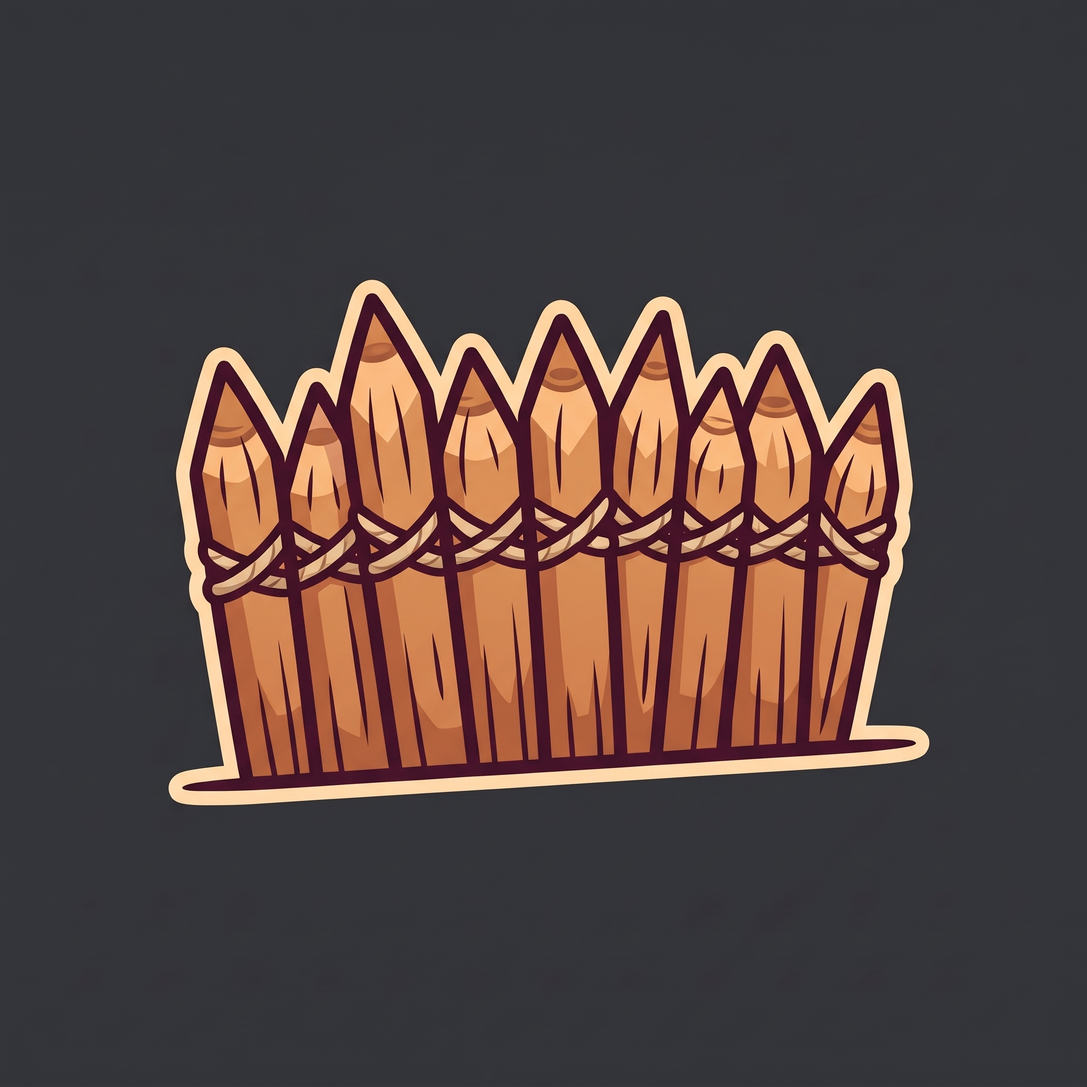
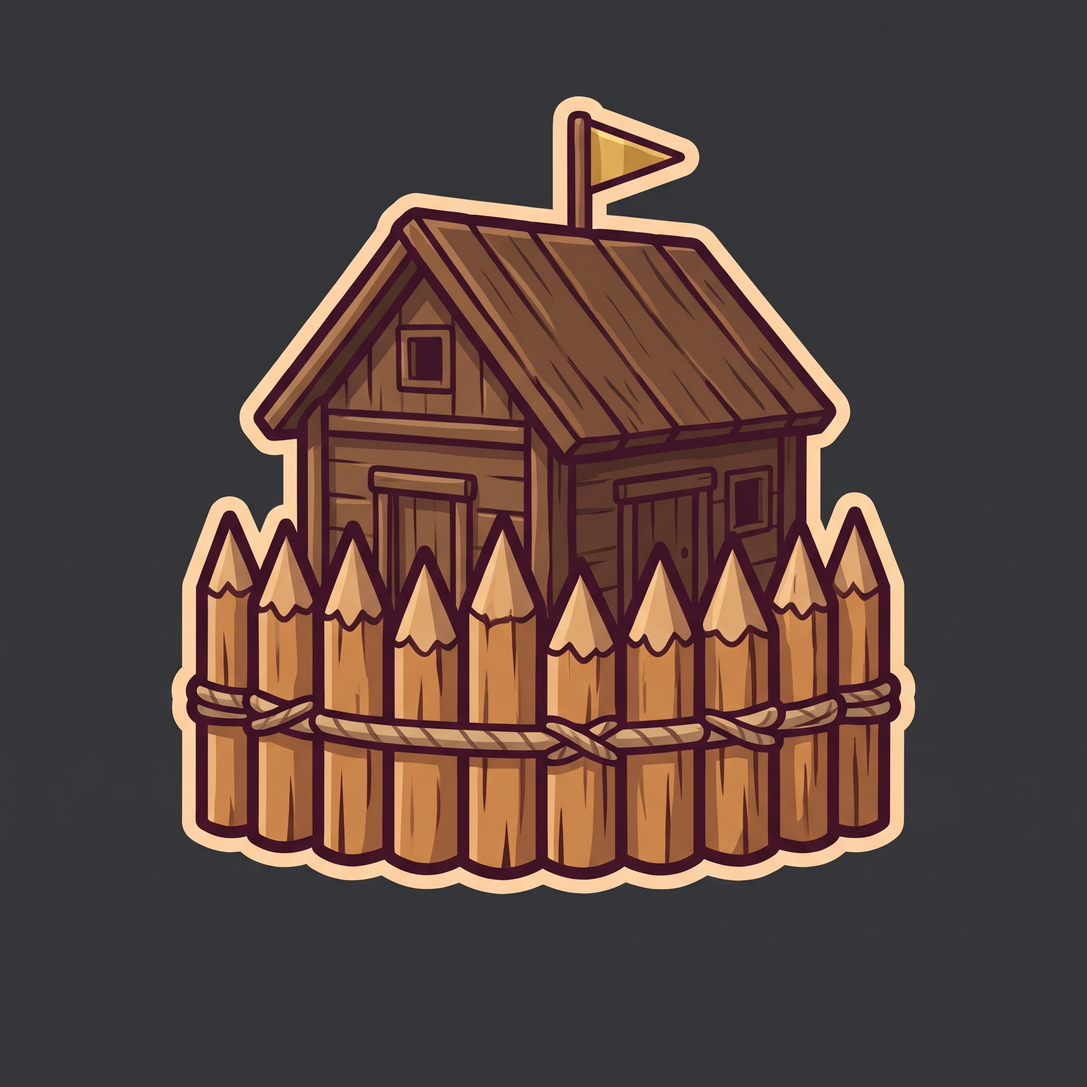
Dobývání: domovský hrad podle opevnění, střechy a praporky v barvě hráče
- Domovský hrad roste s opevněním: hrad s palisádou, s hradbami a citadela (č. 275–277)
- Střechy a praporky všech staveb (hrady, palisáda, hradba, pevnost) se na mapě přebarví barvou majitele: vrstva icons/stavby/<stavba>-barva.webp (scripts/building-art.py) násobená filtrem cqb-<barva>
- Nová palisáda s chaloupkou a praporkem (č. 260); hradba dostane zatím praporek z pevnosti
- Stavby mapy přesunuty do icons/stavby (základ + vrstva barvy), v mezipaměti service workeru
- docs/OBRAZKY.md: 275–277 dodáno, prompt hradby s praporkem

Claude-Session: https://claude.ai/code/session_01BQmFBYsgGAXtVP2veUue6Z

diff --git a/conquest.js b/conquest.js
@@ -19,10 +19,14 @@
     // --- Obrázky (docs/OBRAZKY.md): do dodání existující obrázky nebo kresby SVG; po dodání stačí doplnit název souboru ---
     const ART = {
         card: 'dobyvani',         // č. 234 sova dobyvatel s helmou a mapou (karta, tip)
+        // Stavby na mapě: icons/stavby/<název>.webp + <název>-barva.webp (střechy a vlaječky v barvě hráče, scripts/building-art.py)
         palisade: 'palisada',     // č. 260 opevnění 1 (null = kresba SVG, ICON_SHAPES)
         wall: 'hradba',           // č. 239 opevnění 2
         fortress: 'pevnost',      // č. 261 opevnění 3 (jen domovské území)
-        castle: 'hrad-domov',     // č. 262 domovské území
+        castle: 'hrad-domov',     // č. 262 domovské území (karta tipu bere icons/topics/hrad-domov.webp)
+        castle1: 'hrad-domov-1',  // č. 275 domovský hrad s palisádou
+        castle2: 'hrad-domov-2',  // č. 276 domovský hrad s hradbami
+        castle3: 'hrad-domov-3',  // č. 277 domovský hrad jako pevnost (citadela s korunou)
         treasure: 'poklad',       // č. 263 truhla s pokladem
         compass: 'vetrna-ruzice', // č. 235
         ship: 'plachetnice',      // č. 238
@@ -1318,9 +1322,31 @@
         treasure: '<path d="M3 11h18v10H3z" fill="#9a5b22" stroke="#3a210b" stroke-width="1.1"/><path d="M3 11c0-4 3.6-6.4 9-6.4S21 7 21 11z" fill="#b8722e" stroke="#3a210b" stroke-width="1.1"/><path d="M3 13.6h18M7 4.9V21M17 4.9V21" stroke="#e8b923" stroke-width="1.6"/><rect x="10.2" y="12" width="3.6" height="4.2" rx="0.8" fill="#f2cf4d" stroke="#3a210b" stroke-width="0.8"/>',
         chestLid: '<path d="M3 11c0-4 3.6-6.4 9-6.4S21 7 21 11z" fill="#b8722e" stroke="#3a210b" stroke-width="1.1"/><path d="M7 4.9V11M17 4.9V11" stroke="#e8b923" stroke-width="1.6"/>'
     };
-    const ICON_ART = { palisade: 'palisade', wall: 'wall', fortress: 'fortress', castle: 'castle', treasure: 'treasure' };
-    const iconMarkup = (kind) => (ART[ICON_ART[kind]] ? `<image href="${artUrl(ART[ICON_ART[kind]])}" x="0" y="0" width="24" height="24"/>` : ICON_SHAPES[kind]);
-    const levelIcon = (level, home) => (home ? 'castle' : ['', 'palisade', 'wall', 'fortress'][level] || '');
+    // Stavby: základ a nad ním vrstva střech a vlaječek, kterou filtr cqb-<barva> (buildingTint v defs mapy) vynásobí barvou majitele
+    const BUILDINGS = ['palisade', 'wall', 'fortress', 'castle', 'castle1', 'castle2', 'castle3'];
+    const buildingUrl = (name, layer = '') => `icons/stavby/${name}${layer}.webp`;
+    const iconMarkup = (kind, colorId = null) => {
+        if (BUILDINGS.includes(kind) && ART[kind]) {
+            const tint = colorId ? `<image class="cq-tint" href="${buildingUrl(ART[kind], '-barva')}" x="0" y="0" width="24" height="24" filter="url(#cqb-${colorOf(colorId).id})"/>` : '';
+            return `<image href="${buildingUrl(ART[kind])}" x="0" y="0" width="24" height="24"/>${tint}`;
+        }
+        if (kind === 'treasure' && ART.treasure) return `<image href="${artUrl(ART.treasure)}" x="0" y="0" width="24" height="24"/>`;
+        return ICON_SHAPES[kind] || ICON_SHAPES[kind.replace(/\d$/, '')];
+    };
+    // Domovský hrad roste s opevněním (palisáda, hradby, pevnost); bez obrázku úrovně zůstane základní hrad s kamínky úrovně
+    const levelIcon = (level, home) => {
+        if (home) return level && ART[`castle${level}`] ? `castle${level}` : 'castle';
+        return ['', 'palisade', 'wall', 'fortress'][level] || '';
+    };
+    // Filtr barvy majitele pro střechy a vlaječky: šedá vrstva (prostřední jas 0,78) × barva × 1,28 = plná barva, světlá strana
+    // střechy světlejší, stinná tmavší. Tmavé barvy (černá) se zesvětlí, jinak by střecha splynula s obrysem.
+    const buildingTint = (colorId) => {
+        const color = colorOf(colorId);
+        let rgb = hexRgb(color.hex).map(value => value / 255);
+        if (rgb[0] * 0.299 + rgb[1] * 0.587 + rgb[2] * 0.114 < 0.2) rgb = rgb.map(value => value + (1 - value) * 0.32);
+        const [r, g, b] = rgb.map(value => (value * 1.28).toFixed(3));
+        return `<filter id="cqb-${color.id}" color-interpolation-filters="sRGB"><feColorMatrix type="matrix" values="${r} 0 0 0 0 0 ${g} 0 0 0 0 0 ${b} 0 0 0 0 0 1 0"/></filter>`;
+    };
 
     // --- Vlaječka hráče se znakem (SVG): na mapě i v HTML ---
     // Praporec 0–30 × 0–22 (cíp vpravo), znak uprostřed
@@ -1402,6 +1428,7 @@
         const tile = Math.round(Math.max(w, h) / 3);
         if (ART.sea) defs.push(`<pattern id="${prefix}-seatex" width="${tile}" height="${tile}" patternUnits="userSpaceOnUse"><image href="icons/textury/${ART.sea}.webp" width="${tile}" height="${tile}" class="cq-seatex"/></pattern>`);
         players.forEach(player => defs.push(hatchPattern(player.seat, player.flag_color, prefix)));
+        [...new Set(players.map(player => colorOf(player.flag_color).id))].forEach(colorId => defs.push(buildingTint(colorId)));
         const kraje = MAP_BY_ID[data.id] && MAP_BY_ID[data.id].kraje;
         // U krajů je „mořem“ cizina kolem Česka (pozadí dat je celý výřez)
         const allLand = kraje ? data.t.map(item => item.d).join('') : `${data.land}${data.t.map(item => item.d).join('')}`;
@@ -1482,7 +1509,7 @@
     };
     // Značky na území: opevnění nebo domovský hrad, poklad, vlaječka majitele (velikost 24 jednotek mapy; aplikace je při přiblížení zmenšuje)
     const MARK = 22;
-    const ICON_SCALE = { castle: 1.3, fortress: 1.25, wall: 1.18, palisade: 1.12, treasure: 0.7 };
+    const ICON_SCALE = { castle: 1.3, castle1: 1.34, castle2: 1.38, castle3: 1.44, fortress: 1.25, wall: 1.18, palisade: 1.16, treasure: 0.7 };
     const marksFor = (item, view) => {
         const info = view.owners.get(item.id);
         if (!info) return '';
@@ -1492,7 +1519,7 @@
         const icon = levelIcon(info.level, info.home);
         // Hrad a opevnění větší, poklad menší (je to jen bonus, ne stavba); spodní okraj ikon zůstává na stejné čáře
         const iconAt = (k, left) => `translate(${(left * k * MARK).toFixed(2)} ${(-(k - 0.05) * MARK).toFixed(2)}) scale(${(k * MARK / 24).toFixed(3)})`;
-        if (icon) inner += `<g class="cq-icon" data-icon="${icon}" transform="${iconAt(ICON_SCALE[icon] || 1, -0.05)}">${iconMarkup(icon)}${info.home && info.level ? levelPips(info.level) : ''}</g>`;
+        if (icon) inner += `<g class="cq-icon" data-icon="${icon}" transform="${iconAt(ICON_SCALE[icon] || 1, -0.05)}">${iconMarkup(icon, owner ? owner.flag_color : null)}${icon === 'castle' && info.level ? levelPips(info.level) : ''}</g>`;
         if (info.treasure && !owner) inner += `<g class="cq-icon cq-treasure" data-icon="treasure" transform="${iconAt(ICON_SCALE.treasure, -0.5)}">${iconMarkup('treasure')}</g>`;
         if (owner) inner += `<g class="cq-pin" data-pin="${item.id}" transform="translate(${icon ? -MARK * 0.55 : -MARK * 0.1} 0)"><path d="M0 2V${-MARK * 1.25}" stroke="#3b2a1a" stroke-width="1.6" stroke-linecap="round"/><circle cx="0" cy="${-MARK * 1.25}" r="1.6" fill="#c9a227"/>`
             + `<g transform="translate(0.8 ${-MARK * 1.22}) scale(${(MARK * 0.75 / 30).toFixed(3)})">${pennantGroup(owner.flag_color, owner.emblem)}</g></g>`;

diff --git a/tests/conquest.test.js b/tests/conquest.test.js
@@ -693,6 +693,34 @@ test('ztracený hrad: nápověda (záložka Regiony) říká, že kdo přijde o 
     assert.equal(C.PENALTY_TEXT, 'Kvůli ztracenému hradu máš v tomto období o tah méně.');
 });
 
+test('stavby: domovský hrad podle úrovně (č. 275–277), střechy a vlaječky v barvě majitele, obrázky v mezipaměti', () => {
+    // Domovský hrad roste s opevněním, ostatní území mají palisádu, hradbu a pevnost
+    assert.deepEqual([0, 1, 2, 3].map(level => C.levelIcon(level, true)), ['castle', 'castle1', 'castle2', 'castle3']);
+    assert.deepEqual([0, 1, 2, 3].map(level => C.levelIcon(level, false)), ['', 'palisade', 'wall', 'fortress']);
+    // Každá stavba: základ a vrstva barvy v icons/stavby, obojí v mezipaměti service workeru
+    const sw = fs.readFileSync(path.join(ROOT, 'sw.js'), 'utf8');
+    const cached = sw.match(/\.\.\.\[([^\]]+)\]\.flatMap\(id => \[`icons\/stavby/)[1].match(/'[^']+'/g).map(id => id.slice(1, -1));
+    for (const kind of ['palisade', 'wall', 'fortress', 'castle', 'castle1', 'castle2', 'castle3']) {
+        const markup = C.iconMarkup(kind, 'zelena');
+        const [base, tint] = [...markup.matchAll(/href="icons\/stavby\/([^"]+)\.webp"/g)].map(m => m[1]);
+        assert.ok(base && tint === `${base}-barva`, `${kind}: základ a vrstva barvy`);
+        assert.match(markup, /class="cq-tint"[^>]*filter="url\(#cqb-zelena\)"/);
+        for (const file of [base, tint]) assert.ok(fs.existsSync(path.join(ROOT, 'icons', 'stavby', `${file}.webp`)), `${file}.webp existuje`);
+        assert.ok(cached.includes(base), `${base}: v mezipaměti`);
+        // Bez majitele zůstanou střechy a vlajky v původních barvách obrázku
+        assert.doesNotMatch(C.iconMarkup(kind), /cq-tint|filter=/);
+    }
+    // Mapa: filtr pro barvu každého hráče, ikony domovů a opevnění s vrstvou barvy majitele; kamínky úrovně jen u hradu bez obrázku úrovně
+    const state = sampleState();
+    state.territories = state.territories.map(t => (t.t === 'Q36' ? { ...t, l: 3 } : t));
+    const svg = C.mapSvg(maps.evropa, C.viewOf(state, maps.evropa, 'A'));
+    assert.match(svg, /<filter id="cqb-cervena" color-interpolation-filters="sRGB"><feColorMatrix type="matrix" values="[\d.]+ 0 0 0 0 0 [\d.]+ 0 0 0 0 0 [\d.]+ 0 0 0 0 0 1 0"\/><\/filter>/);
+    assert.match(svg, /<filter id="cqb-modra"/);
+    assert.match(svg, /data-mark="Q36"[^]*?data-icon="castle3"[^]*?hrad-domov-3-barva\.webp" x="0" y="0" width="24" height="24" filter="url\(#cqb-modra\)"/);
+    assert.match(svg, /data-mark="Q183"[^]*?data-icon="wall"[^]*?hradba-barva\.webp"[^>]*filter="url\(#cqb-modra\)"/);
+    assert.doesNotMatch(svg.match(/data-mark="Q36"[^]*?<\/g><\/g><\/g>/)[0], /<rect /);
+});
+
 test('vykreslení: mapa, náhled, obrazovky a okna bez inline stylů (CSP), klepací plocha pro každé území', () => {
     const state = sampleState();
     const view = C.viewOf(state, maps.evropa, 'A');

diff --git a/sw.js b/sw.js
@@ -42,12 +42,14 @@ const APP_SHELL = [
         // Zlatá otázka (gold.js ART, č. 206–209 a 211)
         'zlata-otazka', 'zlaty-stripek', 'zlata-truhla', 'zlata-truhla-otevrena', 'zlatokop',
         // Dobývání (conquest.js ART, č. 234–239 a 260–263)
-        'dobyvani', 'palisada', 'hradba', 'pevnost', 'hrad-domov', 'poklad', 'vetrna-ruzice', 'plachetnice', 'morska-prisera', 'kartuse-sirka',
+        'dobyvani', 'hrad-domov', 'poklad', 'vetrna-ruzice', 'plachetnice', 'morska-prisera', 'kartuse-sirka',
         'pecet', 'vavrin', 'sova-dobyvatel', 'mince', 'mince-hromadka', 'sova-sazka',
         // Řetězovka (chain.js ART a výsledek, č. 212 a 214: sova s řetězem, prasklý článek)
         'retezovka', 'clanek-prasknuty'].map(id => `icons/topics/${id}.webp`),
     // Boss týdne (boss.js ART): čtyři stupně každého bosse a jeho aréna
     ...['kapitan', 'rytir', 'alchymista', 'amper', 'maestro', 'druid', 'olympan', 'reziser'].flatMap(id => [`boss-${id}`, `boss-${id}-zraneny`, `boss-${id}-vkoncich`, `boss-${id}-porazeny`, `arena-${id}`]).map(id => `icons/topics/${id}.webp`),
+    // Stavby na mapě Dobývání (conquest.js BUILDINGS, scripts/building-art.py): základ a vrstva střech a vlaječek v barvě hráče
+    ...['palisada', 'hradba', 'pevnost', 'hrad-domov', 'hrad-domov-1', 'hrad-domov-2', 'hrad-domov-3'].flatMap(id => [`icons/stavby/${id}.webp`, `icons/stavby/${id}-barva.webp`]),
     // Články řetězu v pásu Řetězovky (chain.js linkSvg, scripts/chain-links.py)
     ...['celem', 'bokem', 'prasknuty'].map(id => `icons/retez/${id}.webp`),
     // Bezešvé textury (zlatá fólie Zlaté otázky, pergamen a moře map Dobývání; č. 210, 232, 233)

diff --git a/scripts/building-art.py b/scripts/building-art.py
@@ -1,0 +1,130 @@
+# Stavby na mapě Dobývání (conquest.js BUILDINGS): branding/ikony/<stavba>.png → icons/stavby/<stavba>.webp + <stavba>-barva.webp
+# Základ je vyříznutá ikona 192×192 jako u ikon témat (scripts/topic-icons.py). Vrstva -barva nese jen střechy a vlaječky:
+# šedé stínování (světlá i stinná strana střechy) s průhledností podle toho, jak moc pixel patří ke střeše nebo vlajce.
+# conquest.js ji na mapě položí přes základ a filtrem (feColorMatrix) vynásobí barvou hráče, který území drží.
+# Hradba (č. 239) vlajku nemá: dostane vlajku z pevnosti (č. 261), zapíchnutou za hradbou.
+# Spuštění: python3 scripts/building-art.py [stavba …]   (Pillow, numpy, scipy)
+import sys, os, importlib.util
+import numpy as np
+from PIL import Image, ImageDraw
+from scipy import ndimage as ndi
+
+root = os.path.join(os.path.dirname(os.path.abspath(__file__)), '..')
+spec = importlib.util.spec_from_file_location('topic_icons', os.path.join(root, 'scripts', 'topic-icons.py'))
+topic_icons = importlib.util.module_from_spec(spec)
+spec.loader.exec_module(topic_icons)
+
+# Střechy: 'blue' = břidlicově modré kuželové střechy hradů; seznam mnohoúhelníků = dřevěná střecha (bere se celá prkna,
+# která v něm leží většinou plochy). Vlajky: obdélníky (x0, y0, x1, y1) v souřadnicích ikony 192×192, v nich zlatá látka
+# (koruna citadely a rozsvícená okna leží mimo, hvězda na vlajce zůstane krémová)
+BUILDINGS = {
+    'hrad-domov': {'roof': 'blue', 'flags': [(94, 6, 124, 28)]},
+    'hrad-domov-1': {'roof': 'blue', 'flags': [(95, 6, 120, 25)]},
+    'hrad-domov-2': {'roof': 'blue', 'flags': [(95, 15, 120, 34), (20, 70, 38, 85), (166, 70, 185, 85)]},
+    'hrad-domov-3': {'roof': 'blue', 'flags': [(95, 10, 120, 30), (24, 37, 43, 52), (162, 37, 185, 52), (49, 63, 66, 75), (138, 63, 155, 75)]},
+    'palisada': {'roof': [[(64, 30), (132, 33), (163, 76), (100, 86)], [(62, 29), (68, 34), (38, 80), (27, 79)]], 'flags': [(104, 5, 133, 28)]},
+    'hradba': {'roof': None, 'flags': [], 'flag_from': 'pevnost'},
+    'pevnost': {'roof': None, 'flags': [(95, 6, 142, 32)]},
+}
+# Vlajka pevnosti s žerdí (bez cimbuří pod ní): výřez z pevnosti, žerď v x = POLE_X výřezu
+FLAG_CROP = (86, 0, 146, 37)
+FLAG_BOX = (98, 6, 142, 32)
+
+def channels(im):
+    a = np.asarray(im).astype(np.float32) / 255
+    rgb, alpha = a[..., :3], a[..., 3]
+    mx, mn = rgb.max(-1), rgb.min(-1)
+    sat = (mx - mn) / (mx + 1e-6)
+    lum = rgb @ np.array([0.299, 0.587, 0.114], np.float32)
+    return rgb, alpha, sat, lum
+
+def gold_weight(rgb, sat):
+    r, g, b = rgb[..., 0], rgb[..., 1], rgb[..., 2]
+    # Krémový obrys samolepky (sytost kolem 0,3) do vlajky nepatří, jinak by kolem ní zůstal barevný lem
+    return np.clip((r - b - 0.2) / 0.15, 0, 1) * np.clip((sat - 0.42) / 0.12, 0, 1) * np.clip((g - 0.25) / 0.12, 0, 1)
+
+def blue_weight(rgb, sat, lum):
+    r, b = rgb[..., 0], rgb[..., 2]
+    return np.clip((b - r - 0.01) / 0.07, 0, 1) * np.clip((sat - 0.08) / 0.08, 0, 1) * np.clip((lum - 0.1) / 0.08, 0, 1)
+
+def polygon_planks(lum, alpha, polygons):
+    # Světlé plochy oddělené tmavými čarami (prkna); prkno patří ke střeše, když v mnohoúhelníku leží aspoň 60 % jeho plochy
+    inside = Image.new('L', lum.shape[::-1], 0)
+    draw = ImageDraw.Draw(inside)
+    for poly in polygons: draw.polygon(poly, fill=255)
+    inside = np.asarray(inside) > 0
+    light = (lum > 0.17) & (alpha > 0.9)
+    labels, count = ndi.label(light)
+    keep = np.zeros(count + 1, bool)
+    sizes = ndi.sum(np.ones_like(lum), labels, range(count + 1))
+    hits = ndi.sum(inside, labels, range(count + 1))
+    keep[1:] = (hits[1:] / np.maximum(sizes[1:], 1)) >= 0.6
+    mask = keep[labels]
+    # Tmavé čáry mezi prkny uvnitř střechy patří ke střeše taky (ztmaví se do barvy hráče, obrys střechy zůstane)
+    grown = ndi.binary_closing(mask, iterations=2) & inside & (alpha > 0.9)
+    return np.maximum(mask.astype(np.float32), grown.astype(np.float32) * 0.85)
+
+def with_flag(base, donor):
+    # Vlajka z pevnosti za hradbou: žerď na hřebenu hlavní zdi, spodek žerdi schovaný za zdí
+    flag = donor.crop(FLAG_CROP)
+    alpha = np.asarray(base)[..., 3] > 128
+    xs = np.where(alpha.any(0))[0]
+    x = int(xs.min() + (xs.max() - xs.min()) * 0.3)  # třetina šířky: nad zdí, vlajka vlaje doprava k věži
+    top = int(np.where(alpha[:, x - 3:x + 4].any(1))[0].min())
+    pole_x = 10  # žerď ve výřezu
+    out = Image.new('RGBA', base.size, (0, 0, 0, 0))
+    ox, oy = x - pole_x, top + 7 - flag.height
+    out.paste(flag, (ox, oy), flag)
+    out.alpha_composite(base)
+    box = (FLAG_BOX[0] - FLAG_CROP[0] + ox, FLAG_BOX[1] - FLAG_CROP[1] + oy, FLAG_BOX[2] - FLAG_CROP[0] + ox, FLAG_BOX[3] - FLAG_CROP[1] + oy)
+    return out, box
+
+def tint_layer(im, roof, flags):
+    rgb, alpha, sat, lum = channels(im)
+    h, w = lum.shape
+    weight = np.zeros((h, w), np.float32)
+    kinds = []
+    if roof == 'blue':
+        roof_w = blue_weight(rgb, sat, lum) * (alpha > 0.5)
+        kinds.append(roof_w)
+    elif roof:
+        kinds.append(polygon_planks(lum, alpha, roof))
+    if flags:
+        flag_w = np.zeros((h, w), np.float32)
+        gold = gold_weight(rgb, sat) * (alpha > 0.5)
+        for x0, y0, x1, y1 in flags: flag_w[y0:y1, x0:x1] = gold[y0:y1, x0:x1]
+        kinds.append(flag_w)
+    gray = np.zeros((h, w), np.float32)
+    for k in kinds:
+        core = k > 0.6
+        if not core.any(): continue
+        ref = float(np.median(lum[core]))
+        # Prostřední jas plochy → 0,78 (filtr v conquest.js ho vynásobí na plnou barvu hráče), světlá strana světlejší, stín tmavší
+        g = np.clip(lum / max(ref, 0.05) * 0.78, 0, 1)
+        gray = np.where(k > weight, g, gray)
+        weight = np.maximum(weight, k)
+    out = np.dstack([gray, gray, gray, weight * alpha]) * 255
+    return Image.fromarray(out.round().astype(np.uint8), 'RGBA'), weight
+
+def main(wanted):
+    os.makedirs(os.path.join(root, 'icons', 'stavby'), exist_ok=True)
+    cache = {}
+    def base_of(name):
+        if name not in cache: cache[name] = topic_icons.icon(os.path.join(root, 'branding', 'ikony', name + '.png'), name)
+        return cache[name]
+    for name, spec in BUILDINGS.items():
+        if wanted and name not in wanted: continue
+        im = base_of(name)
+        flags = list(spec['flags'])
+        if spec.get('flag_from'):
+            im, box = with_flag(im, base_of(spec['flag_from']))
+            flags.append(box)
+        tint, weight = tint_layer(im, spec['roof'], flags)
+        out = os.path.join(root, 'icons', 'stavby', name + '.webp')
+        im.save(out, 'WEBP', quality=90, method=6)
+        tint_out = os.path.join(root, 'icons', 'stavby', name + '-barva.webp')
+        tint.save(tint_out, 'WEBP', quality=90, method=6)
+        print(name, os.path.getsize(out), 'B, barva', os.path.getsize(tint_out), 'B,', int((weight > 0.5).sum()), 'px')
+
+if __name__ == '__main__':
+    main(sys.argv[1:])

diff --git a/scripts/topic-icons.py b/scripts/topic-icons.py
@@ -101,17 +101,22 @@ def cut(path, name=''):
     im = Image.fromarray(np.dstack([rgb, alpha * 255]).round().astype(np.uint8), 'RGBA')
     return im.crop(im.getchannel('A').point(lambda v: 255 if v > 8 else 0).getbbox())
 
+def icon(path, name=''):
+    # Vyříznutá ikona ve čtverci SIZE×SIZE (sova v pózách 320×320, zobrazuje se velká); používá i scripts/building-art.py
+    im = cut(path, name)
+    size = 320 if name.startswith('sova-') else SIZE
+    inner = size - 8
+    scale = inner / max(im.size)
+    im = im.resize((max(1, round(im.width * scale)), max(1, round(im.height * scale))), Image.LANCZOS)
+    canvas = Image.new('RGBA', (size, size), (0, 0, 0, 0))
+    canvas.paste(im, ((size - im.width) // 2, (size - im.height) // 2), im)
+    return canvas
+
 def main(wanted):
     for path in sorted(glob.glob(os.path.join(root, 'branding', 'ikony', '*.png'))):
         name = os.path.splitext(os.path.basename(path))[0]
         if (wanted and name not in wanted) or name.startswith('avatar-'): continue  # avatary: scripts/avatar-icons.py
-        im = cut(path, name)
-        size = 320 if name.startswith('sova-') else SIZE  # sova v pózách je větší (zobrazuje se velká)
-        inner = size - 8
-        scale = inner / max(im.size)
-        im = im.resize((max(1, round(im.width * scale)), max(1, round(im.height * scale))), Image.LANCZOS)
-        canvas = Image.new('RGBA', (size, size), (0, 0, 0, 0))
-        canvas.paste(im, ((size - im.width) // 2, (size - im.height) // 2), im)
+        canvas = icon(path, name)
         out = os.path.join(root, 'icons', 'topics', name + '.webp')
         canvas.save(out, 'WEBP', quality=90, method=6)
         print(name, os.path.getsize(out), 'B')

diff --git a/docs/OBRAZKY.md b/docs/OBRAZKY.md
@@ -2259,12 +2259,12 @@ Kam: ozdoba na moři mapy Dobývání. Do dodání se nekreslí. Přiložit: `br
 Cartoon sticker illustration in exactly the same art style as the attached owl mascot image: thick dark maroon outline, flat bold colors with simple cel shading, a thin cream-colored sticker border around the whole object. Single centered subject filling about 80 % of the frame with even empty space around it. Plain solid flat dark grey background, color #2d3034, no gradient, no shadow on the background, no floor, no frame. No text, no letters, no numbers, no logo, no watermark. Use the attached owl image only as a style reference (line weight, colors, shading); do not draw the owl. Subject: A small plump sailing ship drawn like a decoration on an antique map, with a hint of fine engraved hatching in the shading, but in the same cartoon sticker style: a round wooden hull, two masts with full cream sails puffed by the wind, a small plain teal pennant at the top of the main mast (no symbols), sitting on a few stylized curly waves. Colors: warm wood brown, cream sails, teal, blue waves. Square image, aspect ratio 1:1, 1024 × 1024 px. --ar 1:1
 ```
 
-#### 239. `hradba.png` – Kamenná hradba s věží – ✅ dodáno, zapojeno
+#### 239. `hradba.png` – Kamenná hradba s věží – ✅ dodáno, zapojeno; nová verze s praporkem čeká na dodání (zatím se k hradbě na mapě přidá praporek z pevnosti)
 
 Kam: ikona opevnění 2. stupně (Hradba) na území mapy Dobývání (vyroste ze země s obláčkem prachu, po úspěšném útoku praskne) a v kartě území; 1. stupeň je Palisáda (č. 260), 3. stupeň Pevnost (č. 261). Musí být čitelná i jako ikona 28–36 px. Do dodání jednoduchá značka ze SVG. Přiložit: `branding/sova-original.jpg` (vzor stylu)
 
 ```text
-Cartoon sticker illustration in exactly the same art style as the attached owl mascot image: thick dark maroon outline, flat bold colors with simple cel shading, a thin cream-colored sticker border around the whole object. Single centered subject filling about 80 % of the frame with even empty space around it, readable even as a tiny 28 px map icon (simple bold shapes, no tiny details). Plain solid flat dark grey background, color #2d3034, no gradient, no shadow on the background, no floor, no frame. No text, no letters, no numbers, no logo, no watermark. Use the attached owl image only as a style reference (line weight, colors, shading); do not draw the owl and do not copy any existing cartoon or game artwork. Subject: This is one of three matching fortification icons that clearly escalate in strength (level 1: a low wooden stake palisade, level 2: a stone wall with a small tower, level 3: a tall stone fortress tower with a pennant); all three share the same three-quarter front view, the same base width (about 80 % of the image width), the bottom edge on the same flat ground line (no grass, no ground patch) and the same colors of stone and wood, and each level is taller and grander than the one before. If an image of another level is attached, match its view, size and style exactly. LEVEL 2: a sturdy, medium-height section of grey stone castle wall with crenellations and a small round stone tower with battlements on one side, a small arched wooden gate in the wall, big simple stone blocks, no flag. Colors: warm grey stone, wood brown. Square image, aspect ratio 1:1, 1024 × 1024 px. --ar 1:1
+Cartoon sticker illustration in exactly the same art style as the attached owl mascot image: thick dark maroon outline, flat bold colors with simple cel shading, a thin cream-colored sticker border around the whole object. Single centered subject filling about 80 % of the frame with even empty space around it, readable even as a tiny 28 px map icon (simple bold shapes, no tiny details). Plain solid flat dark grey background, color #2d3034, no gradient, no shadow on the background, no floor, no frame. No text, no letters, no numbers, no logo, no watermark. Use the attached owl image only as a style reference (line weight, colors, shading); do not draw the owl and do not copy any existing cartoon or game artwork. Subject: This is one of three matching fortification icons that clearly escalate in strength (level 1: a low wooden stake palisade, level 2: a stone wall with a small tower, level 3: a tall stone fortress tower with a pennant); all three share the same three-quarter front view, the same base width (about 80 % of the image width), the bottom edge on the same flat ground line (no grass, no ground patch) and the same colors of stone and wood, and each level is taller and grander than the one before. If an image of another level is attached, match its view, size and style exactly. LEVEL 2: a sturdy, medium-height section of grey stone castle wall with crenellations and a small round stone tower with battlements on one side, a small arched wooden gate in the wall, big simple stone blocks, and a plain golden pennant flying from a short pole on top of the tower (no symbols). Colors: warm grey stone, wood brown, gold. Square image, aspect ratio 1:1, 1024 × 1024 px. --ar 1:1
 ```
 
 #### 240. `ramecek-dobyvatel.png` – Obrázkový rámeček Dobyvatel – ✅ dodáno, zapojeno
@@ -2439,14 +2439,14 @@ Cartoon sticker illustration in exactly the same art style as the attached owl m
 
 ## 20. Dobývání – opevnění a značky na mapě (č. 260–263)
 
-Opevnění území má tři stupně, které k sobě patří a viditelně rostou: 1. Palisáda (č. 260), 2. Hradba (č. 239) a 3. Pevnost (č. 261). Mají stejný pohled, stejnou šířku základny a stejný styl: nejdřív vygenerujte hradbu č. 239 a k palisádě i pevnosti ji přiložte jako vzor. Všechny značky na mapě musí být čitelné i jako ikona 28–36 px a mít neutrální barvy (kámen, dřevo, zlato), aby byly dobře vidět na území v barvě kteréhokoli hráče.
+Opevnění území má tři stupně, které k sobě patří a viditelně rostou: 1. Palisáda (č. 260), 2. Hradba (č. 239) a 3. Pevnost (č. 261). Mají stejný pohled, stejnou šířku základny a stejný styl: nejdřív vygenerujte hradbu č. 239 a k palisádě i pevnosti ji přiložte jako vzor. Všechny značky na mapě musí být čitelné i jako ikona 28–36 px a mít neutrální barvy (kámen, dřevo, zlato), aby byly dobře vidět na území v barvě kteréhokoli hráče. Každá stavba má zlatý praporek: ten se na mapě (stejně jako střechy hradů a chaloupky) přebarví barvou hráče, který území drží (`scripts/building-art.py` → `icons/stavby/<název>-barva.webp`). Proto mají být praporky vždy plné zlaté bez znaků a střechy hradů břidlicově modré.
 
-#### 260. `palisada.png` – Dřevěná palisáda – ✅ dodáno, zapojeno
+#### 260. `palisada.png` – Dřevěná palisáda s chaloupkou – ✅ dodáno (2. verze s chaloupkou a praporkem), zapojeno
 
 Kam: ikona opevnění 1. stupně (Palisáda) na území mapy Dobývání (vyroste ze země s obláčkem prachu) a v kartě území. Do dodání jednoduchá značka ze SVG. Přiložit: `branding/sova-original.jpg` (vzor stylu) a hotovou `hradba.png` (č. 239, vzor pohledu a velikosti)
 
 ```text
-Cartoon sticker illustration in exactly the same art style as the attached owl mascot image: thick dark maroon outline, flat bold colors with simple cel shading, a thin cream-colored sticker border around the whole object. Single centered subject filling about 80 % of the frame with even empty space around it, readable even as a tiny 28 px map icon (simple bold shapes, no tiny details). Plain solid flat dark grey background, color #2d3034, no gradient, no shadow on the background, no floor, no frame. No text, no letters, no numbers, no logo, no watermark. Use the attached owl image only as a style reference (line weight, colors, shading); do not draw the owl and do not copy any existing cartoon or game artwork. Subject: This is one of three matching fortification icons that clearly escalate in strength (level 1: a low wooden stake palisade, level 2: a stone wall with a small tower, level 3: a tall stone fortress tower with a pennant); all three share the same three-quarter front view, the same base width (about 80 % of the image width), the bottom edge on the same flat ground line (no grass, no ground patch) and the same colors of stone and wood, and each level is taller and grander than the one before. If an image of another level is attached, match its view, size and style exactly. LEVEL 1: a low palisade of sharpened wooden stakes of slightly different heights, tied together with rope and standing in a gentle arc, light warm brown wood with darker rings on the pointed tips, no stone, no tower, no flag. Colors: warm wood brown, rope beige. Square image, aspect ratio 1:1, 1024 × 1024 px. --ar 1:1
+Cartoon sticker illustration in exactly the same art style as the attached owl mascot image: thick dark maroon outline, flat bold colors with simple cel shading, a thin cream-colored sticker border around the whole object. Single centered subject filling about 80 % of the frame with even empty space around it, readable even as a tiny 28 px map icon (simple bold shapes, no tiny details). Plain solid flat dark grey background, color #2d3034, no gradient, no shadow on the background, no floor, no frame. No text, no letters, no numbers, no logo, no watermark. Use the attached owl image only as a style reference (line weight, colors, shading); do not draw the owl and do not copy any existing cartoon or game artwork. Subject: This is one of three matching fortification icons that clearly escalate in strength (level 1: a low wooden stake palisade, level 2: a stone wall with a small tower, level 3: a tall stone fortress tower with a pennant); all three share the same three-quarter front view, the same base width (about 80 % of the image width), the bottom edge on the same flat ground line (no grass, no ground patch) and the same colors of stone and wood, and each level is taller and grander than the one before. If an image of another level is attached, match its view, size and style exactly. LEVEL 1: a small wooden log hut with a plank roof standing behind a low palisade of sharpened wooden stakes of slightly different heights, tied together with rope and standing in a gentle arc, light warm brown wood with darker rings on the pointed tips, and a small plain golden pennant on a short pole on the roof ridge (no symbols), no stone, no tower. Colors: warm wood brown, rope beige, gold. Square image, aspect ratio 1:1, 1024 × 1024 px. --ar 1:1
 ```
 
 #### 261. `pevnost.png` – Kamenná pevnost s praporkem – ✅ dodáno, zapojeno
@@ -2517,25 +2517,25 @@ Cartoon sticker illustration in exactly the same art style as the attached owl m
 
 Domovský hrad se opevněním rozrůstá: ke stejnému hrádku (č. 262) přibude palisáda, pak kamenná hradba a nakonec z něj je pevnost. Všechny tři musí vypadat jako tentýž hrad z č. 262, jen větší a mocnější: ke každému přiložte `branding/sova-original.jpg` (vzor stylu) a hotový `hrad-domov.png` (č. 262, tentýž hrad).
 
-#### 275. `hrad-domov-1.png` – Domovský hrad s palisádou (1. stupeň) – čeká na dodání
+#### 275. `hrad-domov-1.png` – Domovský hrad s palisádou (1. stupeň) – ✅ dodáno, zapojeno
 
-Kam: domovské území opevněné na 1. stupeň (Palisáda) na mapě Dobývání a v kartě území. Do dodání hrad `hrad-domov` s malými tečkami stupně. Přiložit: `branding/sova-original.jpg` a `hrad-domov.png` (č. 262).
+Kam: domovské území opevněné na 1. stupeň (Palisáda) na mapě Dobývání (`icons/stavby/hrad-domov-1.webp`, střechy a praporky v barvě hráče). Přiložit: `branding/sova-original.jpg` a `hrad-domov.png` (č. 262).
 
 ```text
 Cartoon sticker illustration in exactly the same art style as the attached owl mascot image: thick dark maroon outline, flat bold colors with simple cel shading, a thin cream-colored sticker border around the whole object. Single centered subject filling about 80 % of the frame with even empty space around it, readable even as a tiny 32 px map icon (simple bold shapes, no tiny details). Plain solid flat dark grey background, color #2d3034, no gradient, no shadow on the background, no floor, no frame. No text, no letters, no numbers, no logo, no watermark. Use the attached owl image only as a style reference (line weight, colors, shading); do not draw the owl and do not copy any existing cartoon or game artwork. The second attached image is the same castle at its basic level: keep exactly the same castle in the middle (same central keep with the slate-blue cone roof, the two round towers, the wooden gate, the golden flag with a white star, same three-quarter front view, same colors and line style); only add the fortifications described here around and in front of it, so the castle visibly grows from level to level. The whole group stands on the same flat ground line at the bottom (no grass, no ground patch) and fills the frame a bit more than the basic castle. Subject: LEVEL 1 of 3: the castle is now surrounded by a low ring of sharpened wooden stakes (palisade) in front of it, tied with rope, with a small wooden gate in the palisade in line with the castle gate, and two small wooden watch platforms with torches at the sides. Colors: warm grey stone, slate blue roofs, warm wood brown, gold. Square image, aspect ratio 1:1, 1024 × 1024 px. --ar 1:1
 ```
 
-#### 276. `hrad-domov-2.png` – Domovský hrad s hradbou (2. stupeň) – čeká na dodání
+#### 276. `hrad-domov-2.png` – Domovský hrad s hradbou (2. stupeň) – ✅ dodáno, zapojeno
 
-Kam: domovské území opevněné na 2. stupeň (Hradba). Do dodání hrad s tečkami stupně. Přiložit i hotový `hrad-domov-1.png` (č. 275). Přiložit: `branding/sova-original.jpg` a `hrad-domov.png` (č. 262).
+Kam: domovské území opevněné na 2. stupeň (Hradba) na mapě Dobývání (`icons/stavby/hrad-domov-2.webp`). Přiložit i hotový `hrad-domov-1.png` (č. 275). Přiložit: `branding/sova-original.jpg` a `hrad-domov.png` (č. 262).
 
 ```text
 Cartoon sticker illustration in exactly the same art style as the attached owl mascot image: thick dark maroon outline, flat bold colors with simple cel shading, a thin cream-colored sticker border around the whole object. Single centered subject filling about 80 % of the frame with even empty space around it, readable even as a tiny 32 px map icon (simple bold shapes, no tiny details). Plain solid flat dark grey background, color #2d3034, no gradient, no shadow on the background, no floor, no frame. No text, no letters, no numbers, no logo, no watermark. Use the attached owl image only as a style reference (line weight, colors, shading); do not draw the owl and do not copy any existing cartoon or game artwork. The second attached image is the same castle at its basic level: keep exactly the same castle in the middle (same central keep with the slate-blue cone roof, the two round towers, the wooden gate, the golden flag with a white star, same three-quarter front view, same colors and line style); only add the fortifications described here around and in front of it, so the castle visibly grows from level to level. The whole group stands on the same flat ground line at the bottom (no grass, no ground patch) and fills the frame a bit more than the basic castle. Subject: LEVEL 2 of 3: the wooden palisade has been replaced by a solid crenellated stone wall in front of and around the castle, with two squat round stone corner towers with small slate-blue cone roofs and an arched stone gatehouse with a raised wooden portcullis; two small golden pennants with a white star fly on the corner towers. Clearly stronger and wider than level 1. Colors: warm grey stone, slate blue roofs, wood brown, gold. Square image, aspect ratio 1:1, 1024 × 1024 px. --ar 1:1
 ```
 
-#### 277. `hrad-domov-3.png` – Domovská pevnost (3. stupeň) – čeká na dodání
+#### 277. `hrad-domov-3.png` – Domovská pevnost (3. stupeň) – ✅ dodáno, zapojeno
 
-Kam: domovské území opevněné naplno (Pevnost). Do dodání hrad s tečkami stupně. Přiložit i hotový `hrad-domov-2.png` (č. 276). Přiložit: `branding/sova-original.jpg` a `hrad-domov.png` (č. 262).
+Kam: domovské území opevněné naplno (Pevnost) na mapě Dobývání (`icons/stavby/hrad-domov-3.webp`); pevnost na domovském hradu dává +1 tah za období. Přiložit i hotový `hrad-domov-2.png` (č. 276). Přiložit: `branding/sova-original.jpg` a `hrad-domov.png` (č. 262).
 
 ```text
 Cartoon sticker illustration in exactly the same art style as the attached owl mascot image: thick dark maroon outline, flat bold colors with simple cel shading, a thin cream-colored sticker border around the whole object. Single centered subject filling about 80 % of the frame with even empty space around it, readable even as a tiny 32 px map icon (simple bold shapes, no tiny details). Plain solid flat dark grey background, color #2d3034, no gradient, no shadow on the background, no floor, no frame. No text, no letters, no numbers, no logo, no watermark. Use the attached owl image only as a style reference (line weight, colors, shading); do not draw the owl and do not copy any existing cartoon or game artwork. The second attached image is the same castle at its basic level: keep exactly the same castle in the middle (same central keep with the slate-blue cone roof, the two round towers, the wooden gate, the golden flag with a white star, same three-quarter front view, same colors and line style); only add the fortifications described here around and in front of it, so the castle visibly grows from level to level. The whole group stands on the same flat ground line at the bottom (no grass, no ground patch) and fills the frame a bit more than the basic castle. Subject: LEVEL 3 of 3 (the maximum): the castle has become a mighty citadel: a double ring of tall crenellated stone walls with four big round towers with slate-blue cone roofs, a massive gatehouse with an iron-banded gate, the central keep raised one storey higher with a golden crown-shaped top, a large golden banner with a white star on the keep and golden pennants on all towers, a few warm lit windows. Grand, proud and clearly the strongest of the three levels, while it is still recognizably the same castle. Colors: warm grey stone, slate blue roofs, wood brown, gold. Square image, aspect ratio 1:1, 1024 × 1024 px. --ar 1:1
